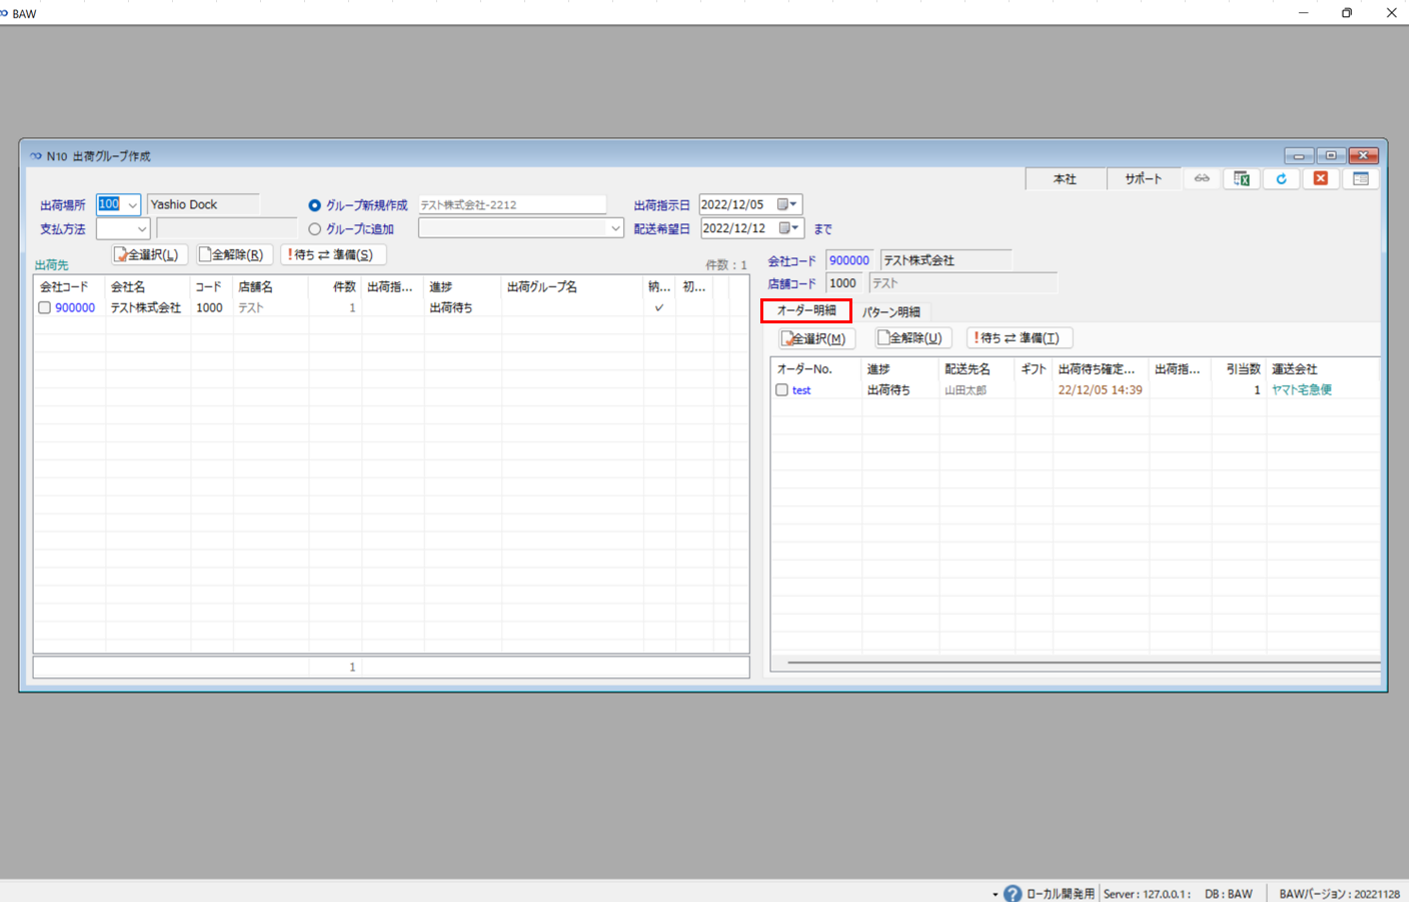
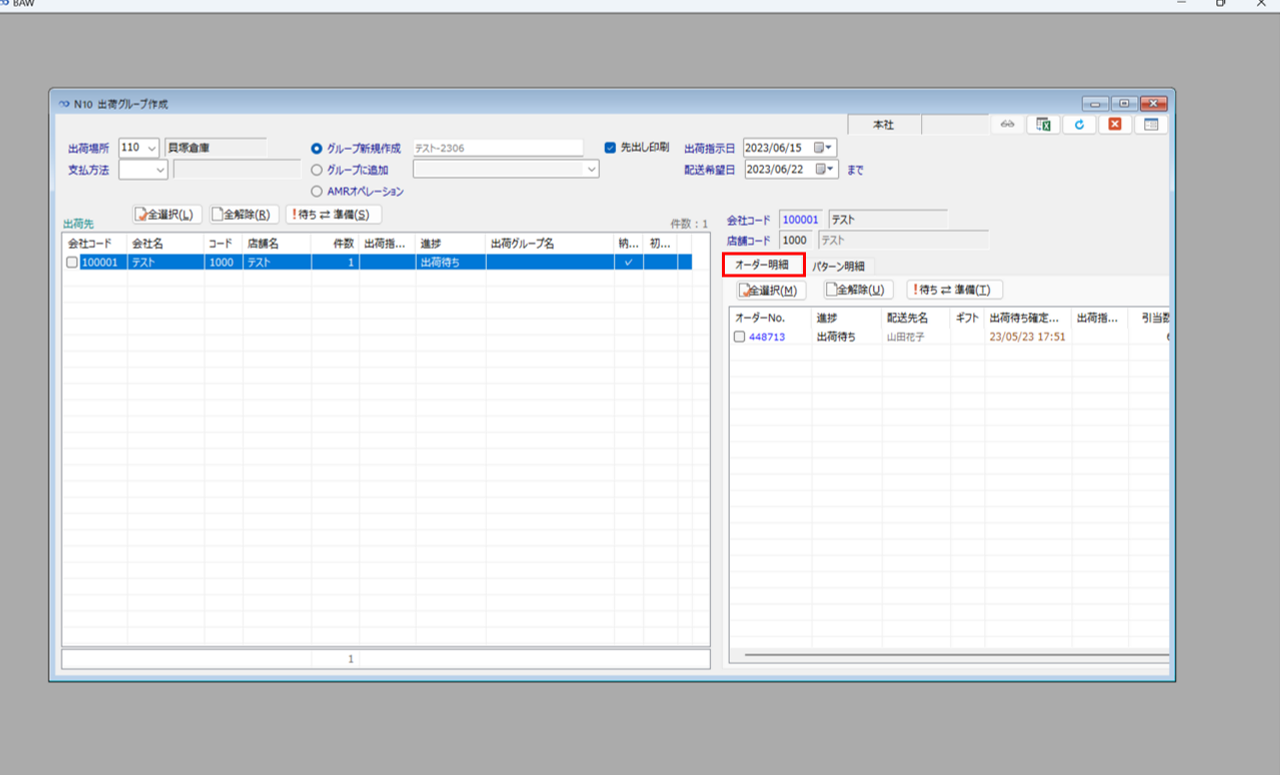
出荷グループ画面更新

diff --git a/Ship.md b/Ship.md
@@ -75,9 +75,9 @@
    3. 商品区分がチラシの明細は黄色で表示されます。JANコードがない場合は行左端のボタンをクリックするか、チラシQRコードをスキャンする事で検品数をカウントアップできます。検品完了すると同様に水色で表示されます。![N18チラシ検品](/img/Ship/N18_LeafletScan.png)
       1. チラシQRコードはこちら![チラシQRコード](/img/Ship/flyer_QRCode.png)
 5. 商品の検品が完了すると該当行が水色で表示されます。![N18商品スキャン完了](/img/Ship/N18_ItemScan_Done.png)
-6. 全ての商品の検品が完了すると完了した旨の文言が表示されます。検品確定QRコードをスキャンすると検品操作が完了します。
+6. 全ての商品の検品が完了すると完了した旨の文言が表示されます。検品確定QRコードをスキャンすると検品操作が完了します。![N18オーダー明細検品完了](/img/Ship/N18_OrderScan_Done.png)
    1. 検品確定QRコードはこちら![検品確定QRコード](/img/Ship/ScanDone_QRCode.png)
-7. 検品を続ける場合は次の出荷指示書単票のバーコードを読み取ってください。![N18オーダー明細検品完了](/img/Ship/N18_OrderScan_Done.png)
+7. 検品を続ける場合は次の出荷指示書単票のバーコードを読み取ってください。
 
 ## W13 荷札データ出力
 1. サイドメニューの倉庫(W)から荷札データ出力(W13)を開きます。![W13メニュー](/img/Ship/W13_Menu.png)

diff --git a/index.md b/index.md
@@ -4,9 +4,12 @@
 仲井暉人
 
 ## 改訂履歴
--1.0:
+- 1.0:
   - 作成日時：2022-12-08
   - 更新内容：初版作成
+- 1.1:
+  - 更新日時：2023-06-15
+  - 出荷グループ画面、検品画面のマニュアル更新
 
 ## 目次
 
